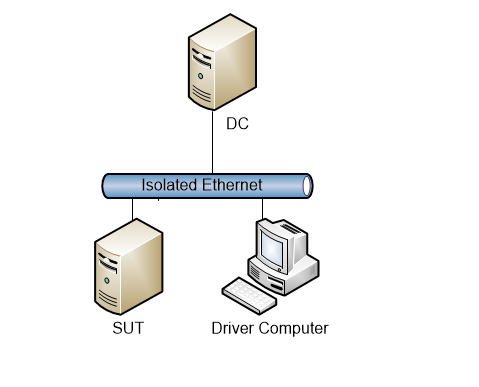
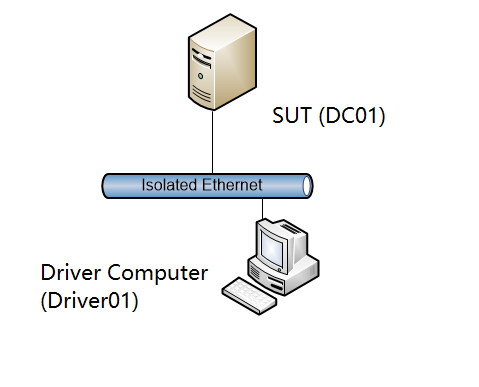
Add set-aduser command, simplify the environment topology

diff --git a/TestSuites/MS-SFU/docs/MS-SFU_ServerUserGuide.md b/TestSuites/MS-SFU/docs/MS-SFU_ServerUserGuide.md
@@ -220,26 +220,31 @@ This section provides information about how to set up a SUT for use with this te
   * Rename the computer as Driver01  
   * Join the domain BLAH.COM
   * After reboot, the domain join will finished
-  * Start Windows PowerShell by right-clicking on the **Windows PowerShell** icon, and then click **Run as Administrator**, or from a Windows PowerShell command window, type: Start-process powershell -verb runAs
+
 
 ## Config Computers
 
-### Config a Windows Based System Under Test (SUT)
-
-  * Create service1. This service is for both S4U2Self and S4U2Proxy scenarios.
-  * Create service2. This service is for the S4U2Proxy scenario only.
-
 ### Config Domain controller
 
-Log into the Domain Controller DC01 using domain administrator credentials and run PowerShell with administrator privilege:
+Log into the Domain Controller DC01 using domain administrator credentials DC01
+
+Create standard domain users on DC01 with user name "testuser" and password "Password01!"
+
+Create standard domain users on DC01 with user name "service1user" and password "Password01!". This user is for both S4U2Self and S4U2Proxy scenarios.
+
+Create standard domain users on DC01 with user name "service2user" and password "Password01!". This user is for the S4U2Proxy scenario only.
+
+Run PowerShell with administrator privilege:
 
   _setspn -u -s service1/SUT01@BLAH.COM service1user_
 
-  _Ktpass.exe  /princ service1/SUT01@BLAH.COM /mapuser BLAH\service1user /pass Password01! /out keytab.tab /ptype KRB5_NT_PRINCIPAL Crypto ALL
+  _Ktpass.exe  /princ service1/SUT01@BLAH.COM /mapuser BLAH\service1user /pass Password01! /out keytab.tab /ptype KRB5_NT_PRINCIPAL Crypto ALL /rawsalt service1_
 
-  _setspn -u -s service2/SUT01@BLAH.COM service1user_
+  _setspn -u -s service2/SUT01@BLAH.COM service2user_
 
-  _Ktpass.exe  /princ service2/SUT01@BLAH.COM /mapuser BLAH\service2user /pass Password01! /out keytab.tab /ptype KRB5_NT_PRINCIPAL Crypto ALL_
+  _Ktpass.exe  /princ service2/SUT01@BLAH.COM /mapuser BLAH\service2user /pass Password01! /out keytab.tab /ptype KRB5_NT_PRINCIPAL Crypto ALL /rawsalt service2_
+
+  _Set-ADUser service2user -PrincipalsAllowedToDelegateToAccount (Get-ADUser service1user)_
 
   _gpupdate /force_
 
@@ -280,7 +285,7 @@ The following table describes the required properties for all the test cases.
 |  **Property**|  **Description**|
 | -------------| ------------- |
 |  **SutHostName**| Indicates the SUT computer name.|
-| | Default value is **SUT01**.|
+| | Default value is **DC01**.|
 |  **RemoteMachinePort**| The remote machine port for test suite transport.|
 | | Default value: **88**|
 |  **Transport**| The transport of test suite. |
@@ -288,7 +293,7 @@ The following table describes the required properties for all the test cases.
 |  **Realm1**| The domain name used for test environment.|
 | | The default value used in this test suite: **BLAH.COM**|
 |  **DelegatedUserName**| The user to be delegated.|
-| | Default value: **user**|
+| | Default value: **testuser**|
 |  **DelegatedUserType**| The delegated user type.|BLAH.COM
 | | Default value: **NT_ENTERPRISE**|
 |  **Service1FQDN**| The FQDN of service1. |
@@ -315,8 +320,6 @@ On the driver computer, use Microsoft® Visual Studio® to open the MS-SFU_Serve
 * In the **Solution Explorer** window, right-click the **Solution** **MS-SFU**, and select **Build Solution**.
 
 * Open the **Test Explorer** window in Visual Studio, select the names of the test cases that you want to debug.
-
-
 
 ## Troubleshooting
 
